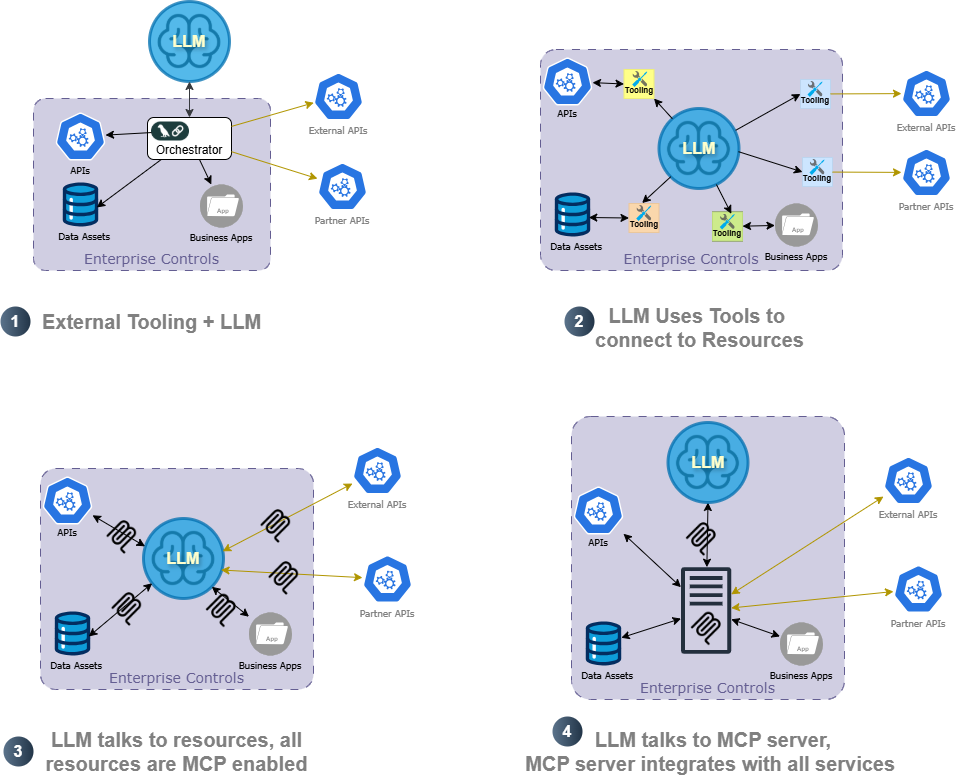
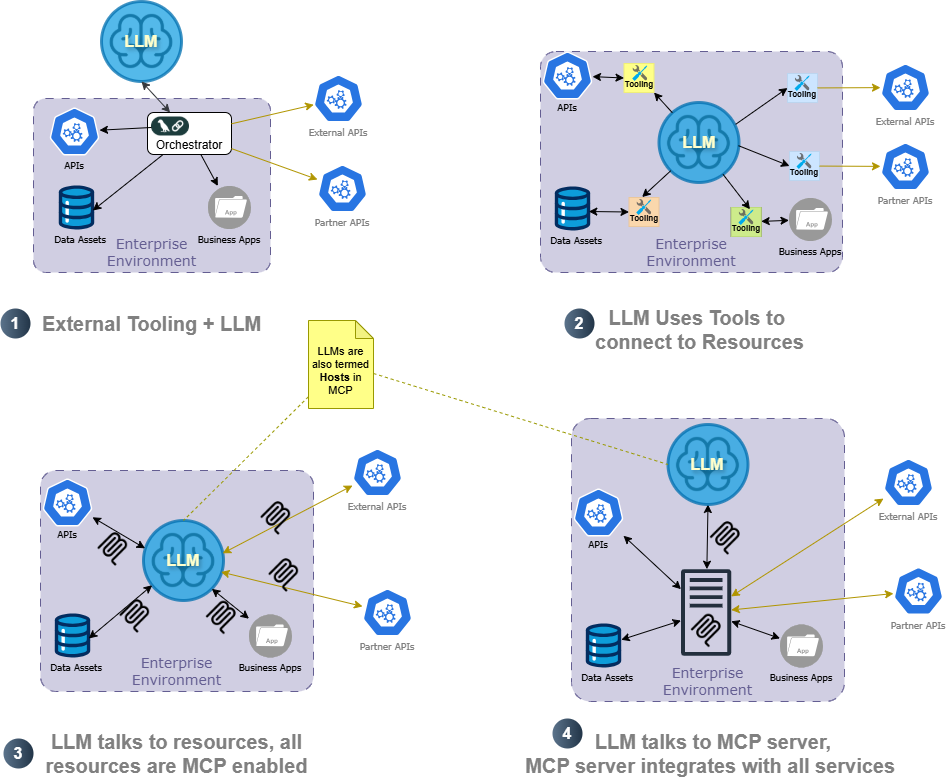
Updated diagram and associated content

diff --git a/blogs/agent_application.md b/blogs/agent_application.md
@@ -41,13 +41,15 @@ In this setup, an *orchestrator*--a custom tool-chain--is built to implement the
 In this setup, LLM drives the functionality of the agent. The LLM uses reasoning to decide on a sequence of actions, and employs tools provided. Typically custom tooling is built to enable LLM to leverage enterprise assets. All endpoints of enterprise assets--REST APIs, data stores, partner APIs--get custom tooling to allow LLMs to discover, connect, and leverage them.
 
 #### LLM with MCP
-In this utopian setup, every enterprise asset is already MCP enabled
+[*"The Model Context Protocol (MCP) is an open standard that facilitates seamless integration between LLM applications and external data sources or tools."*](https://modelcontextprotocol.io/specification/2025-03-26/index)
+In this utopian setup, every enterprise asset is already MCP enabled and expose an MCP endpoint. LLM can now discover these MCP endpoints, and use the relevant enterprise assets to execute the required use cases. 
 
-#### LLMs/SLMs with MCP and A2A
+#### LLMs with MCP Server
+This is a  *middle-ground* implementation, wherein an MCP server, similar to an API gateway, exposes MCP endpoints abstracting the complex integrations behind the server. 
 
 
 ## An Illustrative Example: CRM Automation Agent
-Our sample implementations involved building agents for CRM. To exemplify the increasing complexity possible with agents, we chose to implement agents that can manage customer relations. The chosen toolset was Python, Google ADK, Ollama, and Llama/Gemma/Gemini-Flash. The CRM solution was HubSpot. 
+Our rudimentary implementations involved building agents for CRM demonstrating the capabilities of agents. To demonstrate the possibilities of implementing increasingly complex agents, we chose to implement agents that can manage customer relations. The chosen toolset was Python, Google ADK, Ollama, and Llama/Gemma/Gemini-Flash. The CRM solution was HubSpot. 
 
 ### HubSpot Taskbot - Level-1 Agents
 
@@ -65,8 +67,7 @@ In the case of the CRM example, a FlowBot, apart from entering the lead, also wo
 
 
 ### HubSpot InsightBot - Level-3 Agent
-InsightBots augment and list the potential paths with insights based on real-time findings. 
-
+InsightBots augment and list the potential paths with insights based on real-time findings.
 In the case of the CRM example, the InsightBot, apart from the actions of a FlowBot,
 
 
